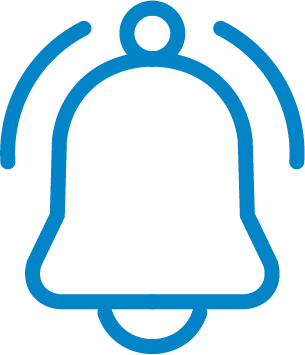
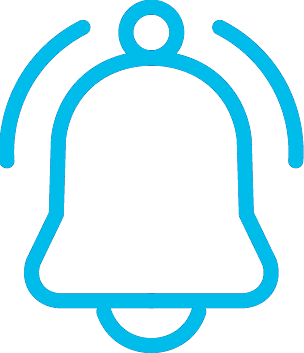
Pequenas modificações visuais

Changed region(s): [[0.0592, 0.0, 0.9178, 1.0], [0.6809, 0.0312, 1.0, 0.4986], [0.0, 0.0312, 0.3257, 0.4986]]

diff --git a/ODTPlace/src/components/HomeHeader.js b/ODTPlace/src/components/HomeHeader.js
@@ -1,113 +1,162 @@
 import React from 'react';
-import { View, Text, TextInput, TouchableOpacity, StyleSheet, Platform, StatusBar, Image } from 'react-native';
+import {
+    View,
+    Text,
+    TextInput,
+    TouchableOpacity,
+    StyleSheet,
+    Platform,
+    StatusBar,
+    Image,
+} from 'react-native';
+
 import NotificationButton from './NotificationButton';
 
-const statusBarHeight = Platform.OS === 'android' ? StatusBar.currentHeight || 24 : 44;
+const statusBarHeight =
+    Platform.OS === 'android'
+        ? StatusBar.currentHeight || 24
+        : 44;
 
-export default function HomeHeader({ usuario, search, setSearch, onBellPress, onFilterPress, sectionText = 'Clínicas Disponíveis' }) {
+export default function HomeHeader({
+    usuario,
+    search,
+    setSearch,
+    onBellPress,
+    onFilterPress,
+}) {
     return (
         <View style={styles.topCard}>
             <View style={styles.topCardContent}>
-                <View style={styles.topHeader}>
-                    <Text style={styles.welcomeText}>Bem-vindo, <Text style={styles.welcomeName}>{usuario}</Text></Text>
+
+                {/* Logo + Notificação */}
+                <View style={styles.headerTop}>
+
+                    <Image
+                        source={require('../../assets/logobrancahorizontal.png')}
+                        style={styles.logo}
+                    />
+
                     <NotificationButton onPress={onBellPress} />
+
                 </View>
 
+                {/* Boas-vindas */}
+                <Text style={styles.welcomeText}>
+                    Bem-vindo,
+                </Text>
+
+                <Text style={styles.userName}>
+                    {usuario}
+                </Text>
+
+                {/* Pesquisa */}
                 <View style={styles.searchBox}>
-                    <Image source={require('../../assets/IconLupa.png')} style={styles.searchIcon} />
+
+                    <Image
+                        source={require('../../assets/IconLupa.png')}
+                        style={styles.searchIcon}
+                    />
+
                     <TextInput
                         value={search}
                         onChangeText={setSearch}
-                        placeholder="Pesquise por nomes"
+                        placeholder="Pesquise por clínicas..."
                         placeholderTextColor="#94a3b8"
                         style={styles.searchInput}
                     />
-                    <TouchableOpacity style={styles.filterButton} onPress={onFilterPress} activeOpacity={0.8}>
-                        <Text style={styles.filterText}>⌗</Text>
-                    </TouchableOpacity>
                 </View>
 
-                <Text style={styles.sectionText}>{sectionText}</Text>
             </View>
         </View>
     );
 }
 
 const styles = StyleSheet.create({
+
     topCard: {
         marginTop: -statusBarHeight,
         marginHorizontal: -20,
-        backgroundColor: '#0ea5e9',
-        borderBottomLeftRadius: 32,
-        borderBottomRightRadius: 32,
-        overflow: 'hidden',
+
+        backgroundColor: '#00BCEB',
+
+        borderBottomLeftRadius: 30,
+        borderBottomRightRadius: 30,
+
         shadowColor: '#000',
-        shadowOffset: { width: 0, height: 10 },
+        shadowOffset: {
+            width: 0,
+            height: 8,
+        },
         shadowOpacity: 0.12,
         shadowRadius: 18,
         elevation: 10,
     },
+
     topCardContent: {
-        paddingHorizontal: 24,
-        paddingTop: statusBarHeight + 40,
-        paddingBottom: 18,
+        paddingTop: statusBarHeight + 30,
+        paddingBottom: 16,
+        paddingHorizontal: 32,
     },
-    topHeader: {
+
+    headerTop: {
         flexDirection: 'row',
         justifyContent: 'space-between',
         alignItems: 'center',
-        marginBottom: 10,
-        marginHorizontal: 14,
+        marginBottom: 18,
     },
-    welcomeText: {
-        color: '#dbeafe',
-        fontSize: 18,
-        fontWeight: '600',
-        flexShrink: 1,
-    },
-    welcomeName: {
-        color: '#ffffff',
-        fontSize: 18,
-        fontWeight: '800',
-    },
-    searchBox: {
-        width: '92%',
-        alignSelf: 'center',
-        flexDirection: 'row',
-        alignItems: 'center',
-        backgroundColor: '#ffffff',
-        borderRadius: 16,
-        paddingHorizontal: 14,
-        paddingVertical: 10,
-    },
-    searchIcon: {
-        width: 18,
-        height: 18,
-        marginRight: 10,
+
+    logo: {
+        width: 150,
+        height: 42,
         resizeMode: 'contain',
     },
+
+    welcomeText: {
+        color: '#E8F8FD',
+        textAlign: 'center',
+        fontSize: 18,
+        fontWeight: '500',
+    },
+
+    userName: {
+        color: '#FFF',
+        textAlign: 'center',
+        fontSize: 24,
+        fontWeight: '800',
+        marginTop: 4,
+        marginBottom: 20,
+    },
+
+    searchBox: {
+        width: '92%',
+        flexDirection: 'row',
+        alignItems: 'center',
+        alignSelf: 'center',
+
+        backgroundColor: '#FFF',
+
+        borderRadius: 28,
+
+        height: 56,
+
+        paddingHorizontal: 10,
+
+        shadowColor: '#000',
+        shadowOpacity: 0.08,
+        shadowRadius: 10,
+        elevation: 4,
+    },
+
+    searchIcon: {
+        width: 20,
+        height: 20,
+        resizeMode: 'contain',
+        marginRight: 10,
+    },
+
     searchInput: {
         flex: 1,
-        color: '#0f172a',
+        color: '#0F172A',
         fontSize: 16,
-    },
-    filterButton: {
-        width: 38,
-        height: 38,
-        borderRadius: 15,
-        backgroundColor: '#e0f2fe',
-        alignItems: 'center',
-        justifyContent: 'center',
-    },
-    filterText: {
-        fontSize: 18,
-        color: '#0284c7',
-    },
-    sectionText: {
-        color: '#ffffff',
-        fontSize: 16,
-        fontWeight: '700',
-        marginTop: 16,
-        marginLeft: 14,
     },
 });

diff --git a/ODTPlace/src/screens/HomeScreen.js b/ODTPlace/src/screens/HomeScreen.js
@@ -55,17 +55,17 @@ export default function HomeScreen({ route, navigation, showBottomNav = true }) 
                     </View>
                 ) : (
                     <FlatList
-                        key="home-flatlist"
-                        data={dadosFiltrados}
-                        keyExtractor={(item) => String(item.id)}
-                        showsVerticalScrollIndicator={false}
-                        contentContainerStyle={styles.listContent}
-                        renderItem={({ item }) => (
-                            <TouchableOpacity
-                                style={styles.card}
-                                activeOpacity={0.85}
-                                onPress={() => navigation.navigate('ClinicDetail', { clinic: item, user })}
-                            >
+                    key="home-flatlist"
+                    data={dadosFiltrados}
+                    keyExtractor={(item) => String(item.id)}
+                    showsVerticalScrollIndicator={false}
+                    contentContainerStyle={styles.listContent}
+                    renderItem={({ item }) => (
+                        <TouchableOpacity
+                        style={styles.card}
+                        activeOpacity={0.85}
+                        onPress={() => navigation.navigate('ClinicDetail', { clinic: item, user })}
+                        >
                                 <View style={styles.cardHeader}>
                                     <View style={styles.clinicLogo} />
 

diff --git a/ODTPlace/src/components/BottomNavBar.js b/ODTPlace/src/components/BottomNavBar.js
@@ -4,7 +4,6 @@ import { View, TouchableOpacity, Text, Image, StyleSheet, Keyboard } from 'react
 const tabs = [
     { key: 'home', label: 'Home', icon: require('../../assets/IconHome.png') },
     { key: 'schedule', label: 'Agendamentos', icon: require('../../assets/IconClipboard.png') },
-    { key: 'notifications', label: 'Notificações', icon: require('../../assets/IconNotificacao.png') },
     { key: 'settings', label: 'Configurações', icon: require('../../assets/IconConfiguracao.png') },
 ];
 

diff --git a/ODTPlace/src/components/ScheduleHeaderNoBack.js b/ODTPlace/src/components/ScheduleHeaderNoBack.js
@@ -20,11 +20,9 @@ const styles = StyleSheet.create({
         left: 0,
         right: 0,
         zIndex: 10,
-        backgroundColor: '#0ea5e9',
-        borderBottomLeftRadius: 15,
-        borderBottomRightRadius: 15,
+        backgroundColor: '#00bceb',
         overflow: 'hidden',
-        paddingTop: statusBarHeight + 25,
+        paddingTop: statusBarHeight + 10,
         paddingBottom: 18,
         paddingHorizontal: 20,
     },

diff --git a/ODTPlace/src/components/ScheduleHeader.js b/ODTPlace/src/components/ScheduleHeader.js
@@ -24,9 +24,7 @@ const styles = StyleSheet.create({
         left: 0,
         right: 0,
         zIndex: 10,
-        backgroundColor: '#0ea5e9',
-        borderBottomLeftRadius: 15,
-        borderBottomRightRadius: 15,
+        backgroundColor: '#00bceb',
         overflow: 'hidden',
         paddingTop: statusBarHeight + 25,
         paddingBottom: 18,

diff --git a/ODTPlace/src/components/NotificationButton.js b/ODTPlace/src/components/NotificationButton.js
@@ -17,7 +17,7 @@ const styles = StyleSheet.create({
     button: {
         width: 44,
         height: 44,
-        borderRadius: 14,
+        borderRadius: 26,
         backgroundColor: '#ffffff',
         alignItems: 'center',
         justifyContent: 'center',
